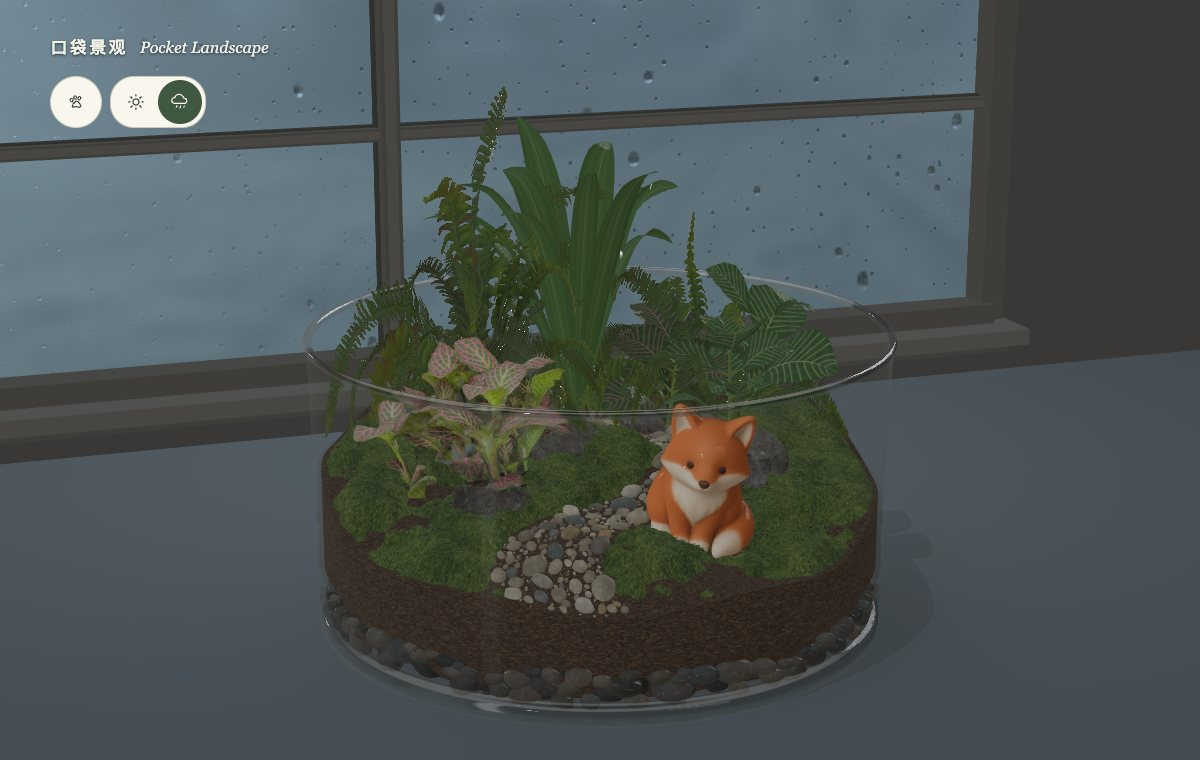
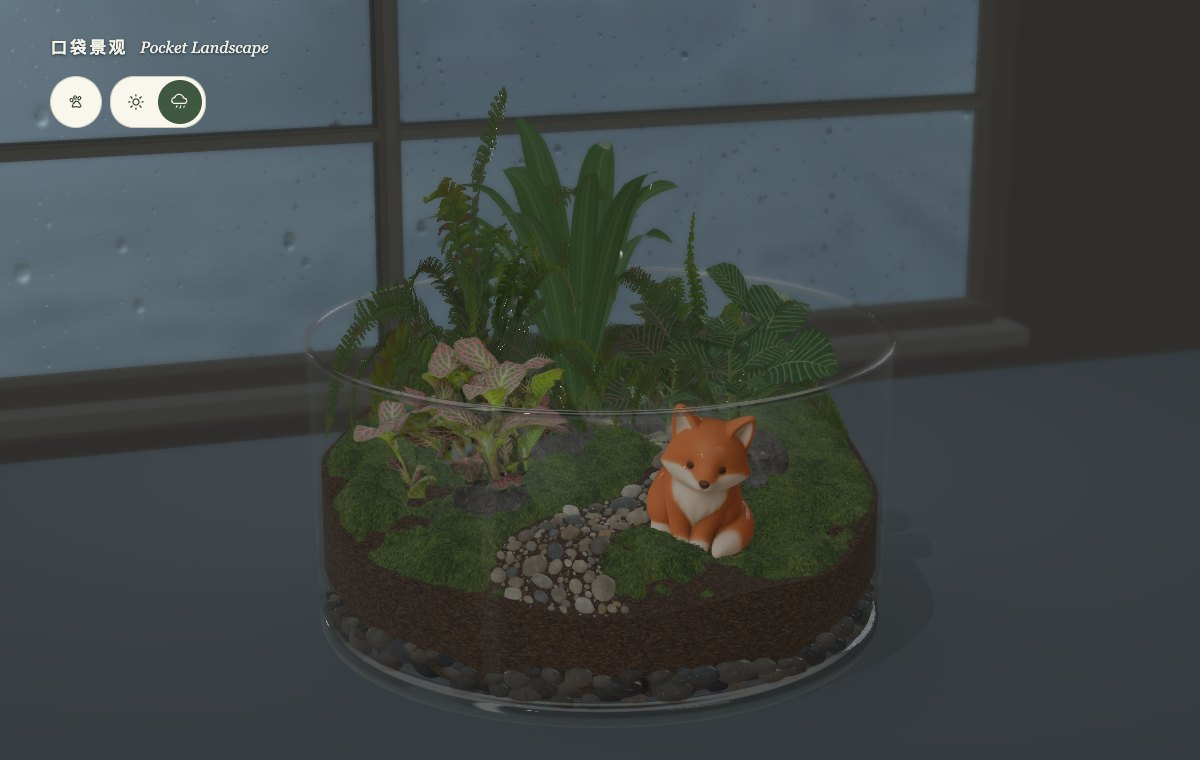
Dim the overcast window and let gusts bend the rain trails

diff --git a/source/window-water.js b/source/window-water.js
@@ -16,6 +16,8 @@ export function createWindowWater(scene, atlas) {
   const bed = fine.getContext('2d');
   let drops = [], spawnBudget = 0, fineBudget = 0, fadeTime = 0, pending = 0;
 
+  let wind = .09, gustTarget = .09, gustTime = 0;
+
   function stamp(context, x, y, rx, ry, depth) {
     context.drawImage(atlas, depth*sprite, 0, sprite, sprite, x-rx, y-ry, 2*rx, 2*ry);
   }
@@ -24,11 +26,19 @@ export function createWindowWater(scene, atlas) {
     stamp(bed, Math.random()*width, Math.random()*height, r, r*1.22, 0);
   }
   function newDrop(x,y,r) {
-    return {x,y,r, speed:0, drift:0, stretch:0, grip:8+Math.random()*6,
+    return {x,y,r, speed:0, drift:0, stretch:0, pathPhase:Math.random()*2*Math.PI, grip:8+Math.random()*6,
       nextBead:6+Math.random()*13, life:10+Math.random()*28};
   }
   function step(dt) {
-    fineBudget += dt*72;
+    // Sheltered glass gets short oblique gusts separated by quieter spells.
+    gustTime -= dt;
+    if (gustTime <= 0) {
+      const gust = Math.random() < .56;
+      gustTarget = gust ? .20 + .20*Math.random() : -.09 + .12*Math.random();
+      gustTime = gust ? 1.1 + 1.6*Math.random() : 1.8 + 2.3*Math.random();
+    }
+    wind += (gustTarget-wind)*(1-Math.exp(-1.4*dt));
+    fineBudget += dt*(64 + 48*Math.abs(wind));
     while (fineBudget >= 1) { deposit(); fineBudget--; }
     fadeTime += dt;
     if (fadeTime >= 1) {
@@ -38,10 +48,23 @@ export function createWindowWater(scene, atlas) {
       bed.globalCompositeOperation = 'source-over';
       fadeTime = 0;
     }
-    spawnBudget += dt*6;
+    spawnBudget += dt*(5 + 8*Math.abs(wind));
     while (spawnBudget >= 1) {
       if (drops.length < maxDrops) {
-        const drop = newDrop(Math.random()*width, Math.random()*height, 4+13*Math.random()**2.7);
+        const squall = Math.random() < Math.max(0,wind)*.8;
+        const radius = squall ? 9+7*Math.random() : 4+13*Math.random()**2.7;
+        const drop = newDrop(Math.random()*width, Math.random()*height, radius);
+        if (squall) {
+          // A heavier impact arrives already sliding, with a few pinprick
+          // beads scattered downwind. The smaller beads stick where they land.
+          drop.speed = 18 + 35*Math.random();
+          drop.drift = drop.speed*wind;
+          for (let i=0; i<3; i++) {
+            const r = 1.3+2*Math.random();
+            stamp(bed, drop.x+radius*(.6+1.7*Math.random()),
+              drop.y+radius*(Math.random()-.5)*2.5, r, r*1.22, 0);
+          }
+        }
         drop.stretch = .38;
         drops.push(drop);
       }
@@ -59,8 +82,12 @@ export function createWindowWater(scene, atlas) {
       const acceleration = (d.r - .76*d.grip)*33 - d.speed*.85;
       d.speed = Math.max(0, Math.min(240, d.speed + acceleration*dt));
       const distance = d.speed*dt, oldX = d.x, oldY = d.y;
-      d.x += d.drift*dt;
-      d.drift *= Math.exp(-2*dt);
+      // Pinned beads resist the wind. Released beads follow it with inertia,
+      // taking slightly different routes over the wetted glass.
+      const slope = wind + .10*Math.sin(d.pathPhase + oldY*.043);
+      d.drift += (d.speed*slope-d.drift)*(1-Math.exp(-3*dt));
+      const side = d.drift*dt;
+      d.x += side;
       d.y += distance;
       // The advancing head sweeps the fine mist aside. Deposit satellite
       // beads behind the swept tip only after it has travelled far enough.
@@ -70,10 +97,13 @@ export function createWindowWater(scene, atlas) {
       bed.strokeStyle = '#000';
       bed.beginPath(); bed.moveTo(oldX,oldY); bed.lineTo(d.x,d.y); bed.stroke();
       bed.globalCompositeOperation = 'source-over';
-      d.nextBead -= distance;
+      const travel = Math.hypot(side,distance);
+      d.nextBead -= travel;
       if (d.nextBead <= 0) {
         const r = d.r*(.15+.20*Math.random());
-        stamp(bed, d.x+(Math.random()-.5)*d.r*.45, d.y-d.r*1.3, r,r*1.45,1);
+        const behind = d.r*1.3/travel;
+        stamp(bed, d.x-side*behind+(Math.random()-.5)*d.r*.45,
+          d.y-distance*behind, r,r*1.45,1);
         d.r = Math.sqrt(Math.max(0,d.r*d.r-r*r));
         d.nextBead = 5+Math.random()*d.r*1.8;
       }
@@ -99,7 +129,7 @@ export function createWindowWater(scene, atlas) {
         b.r=0;
       }
     }
-    drops = drops.filter(d => d.r>.5 && d.y<height+d.r*2);
+    drops = drops.filter(d => d.r>.5 && d.y<height+d.r*2 && d.x>-2*d.r && d.x<width+2*d.r);
   }
   function draw() {
     ctx.clearRect(0,0,width,height);

diff --git a/source/scene.js b/source/scene.js
@@ -132,14 +132,14 @@ async function start(){
   function setRain(raining) {
     casement.setRain(raining);
     mist.setRain(raining);
-    sun.intensity = raining ? .18 : 1.55;
+    sun.intensity = raining ? .14 : 1.55;
     if (raining) sun.diffuse.set(.84,.91,1);
     else sun.diffuse.set(1,.94,.82);
-    sky.intensity = raining ? .32 : .78;
+    sky.intensity = raining ? .25 : .78;
     if (raining) sky.diffuse.set(.84,.92,.99);
     else sky.diffuse.set(1,1,1);
-    scene.environmentIntensity = raining ? .14 : .42;
-    if (raining) scene.clearColor.set(.28,.34,.39,1);
+    scene.environmentIntensity = raining ? .115 : .42;
+    if (raining) scene.clearColor.set(.235,.285,.33,1);
     else scene.clearColor.set(.94,.925,.88,1);
     document.body.classList.toggle('rainy', raining);
     shadows.setDarkness(raining ? .74 : .33);

diff --git a/source/morning-window.js b/source/morning-window.js
@@ -101,7 +101,7 @@ export async function createMorningWindow(scene, camera) {
       pane.material = raining ? rain.wetMaterial() : glass;
       // The painted reveal receives only a weak bounce from the overcast window.
       for (const material of pieces.keys()) {
-        material.diffuseColor.scaleToRef((raining ? .22 : .56) / .34, material.emissiveColor);
+        material.diffuseColor.scaleToRef((raining ? .185 : .56) / .34, material.emissiveColor);
       }
     },
   };

diff --git a/source/rain-glazing.js b/source/rain-glazing.js
@@ -21,7 +21,7 @@ varying vec2 paneUV;
 
 vec3 overcast(vec3 color) {
   float grey = dot(color,vec3(.24,.65,.11));
-  return mix(vec3(grey), color, .30) * vec3(.49,.58,.65) + vec3(.012,.024,.030);
+  return mix(vec3(grey), color, .30) * vec3(.425,.50,.565) + vec3(.010,.019,.025);
 }
 
 void main() {

diff --git a/README.en.md b/README.en.md
@@ -19,7 +19,7 @@ Open the generated `index.html` in a WebGL 2 browser to explore offline. Drag to
 
 Select the paw icon in the upper left, then the thumbnail of the fox, resting fawn or hedgehog.
 
-Select the sun or rain cloud beside the paw to change the weather. On rainy days, dim blue-grey light catches the rim and leaves, fading across the desk into the room. Beads cling to the pane and merge on contact. Heavier drops run down the glass, clearing fine droplets and leaving a broken trail. With reduced motion enabled, the drops stay still.
+Select the sun or rain cloud beside the paw to change the weather. On rainy days, dim blue-grey light catches the rim and leaves, fading across the desk into the room. Beads cling to the pane and merge on contact. Heavier drops slide down the glass and veer slightly in gusts, clearing fine beads and leaving curved, broken trails. With reduced motion enabled, the drops stay still.
 
 ![The fawn resting on the moss with all three figurines in the animal selector](docs/animal-controls.jpg)
 

diff --git a/README.md b/README.md
@@ -19,7 +19,7 @@ npm run build
 
 点左上角的爪印，再点动物缩略图，即可切换狐狸、卧姿小鹿或刺猬。
 
-点击旁边的太阳或雨云图标切换天气。阴雨天里，微弱的灰蓝色窗光勾出杯沿和叶片轮廓，桌面朝室内渐暗。小水珠附在窗上，相遇后会合并；较重的水滴沿玻璃滑落，扫开细珠并留下断续的水痕。启用系统的「减少动态效果」时，雨滴保持静止。
+点击旁边的太阳或雨云图标切换天气。阴雨天里，微弱的灰蓝色窗光勾出杯沿和叶片轮廓，桌面朝室内渐暗。小水珠附在窗上，相遇后会合并；较重的水滴沿玻璃滑落，遇到阵风会略微偏斜，扫开细珠并留下弯曲、断续的水痕。启用系统的「减少动态效果」时，雨滴保持静止。
 
 ![小鹿卧在苔坡上，左上角的动物选择面板展示三款陶土摆件](docs/animal-controls.jpg)
 
